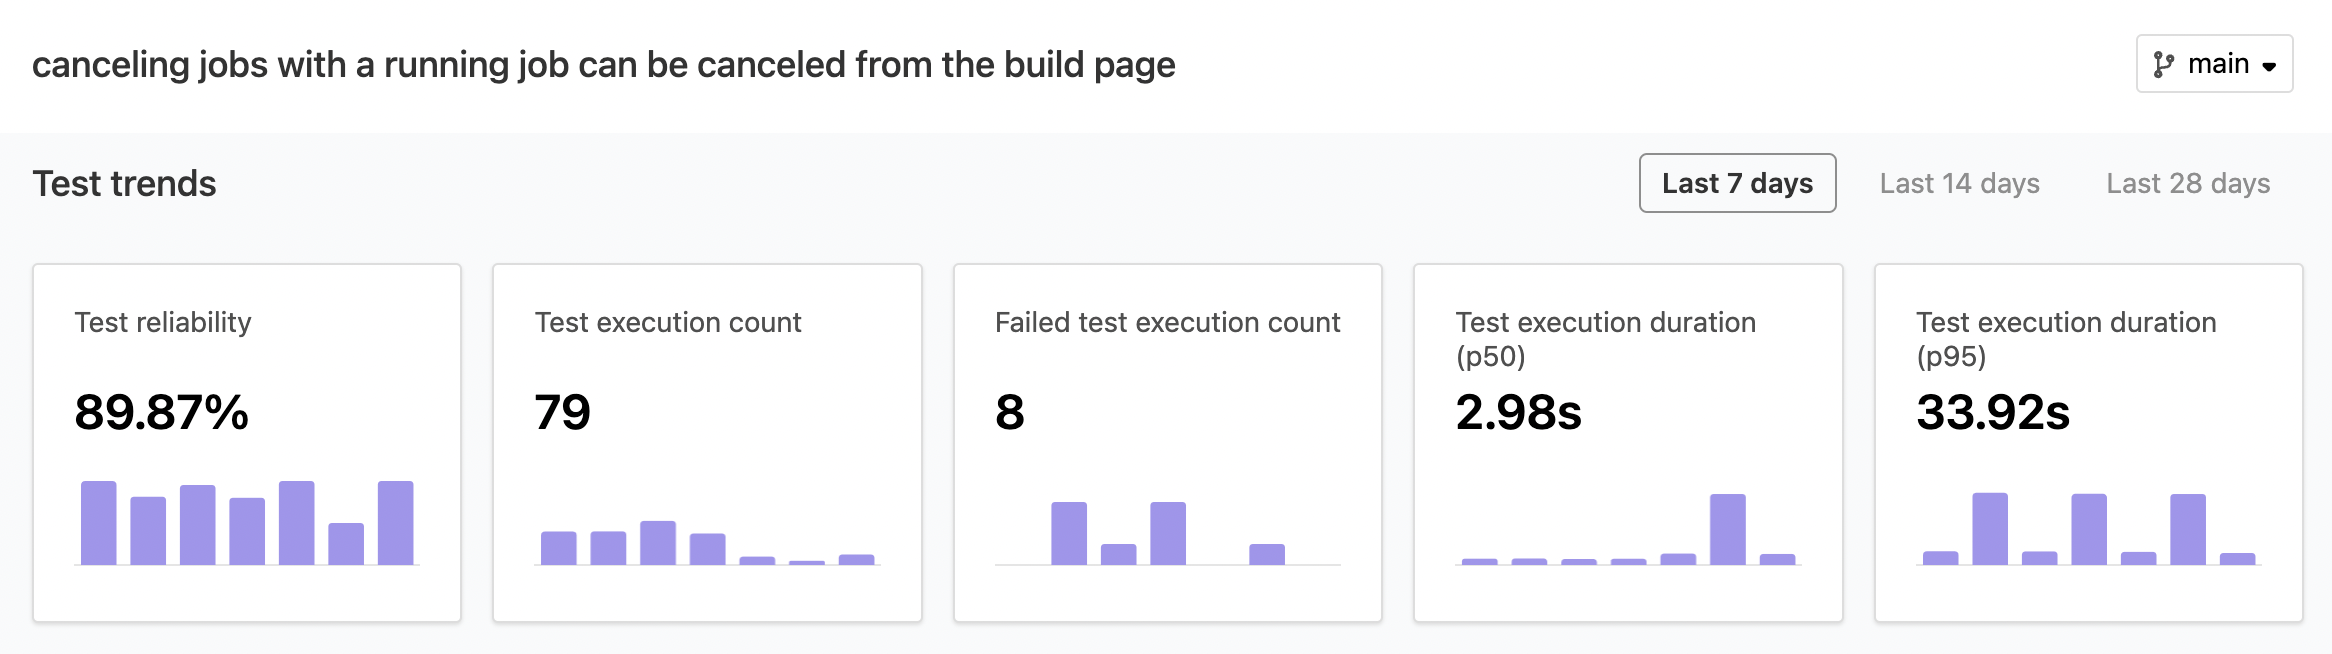
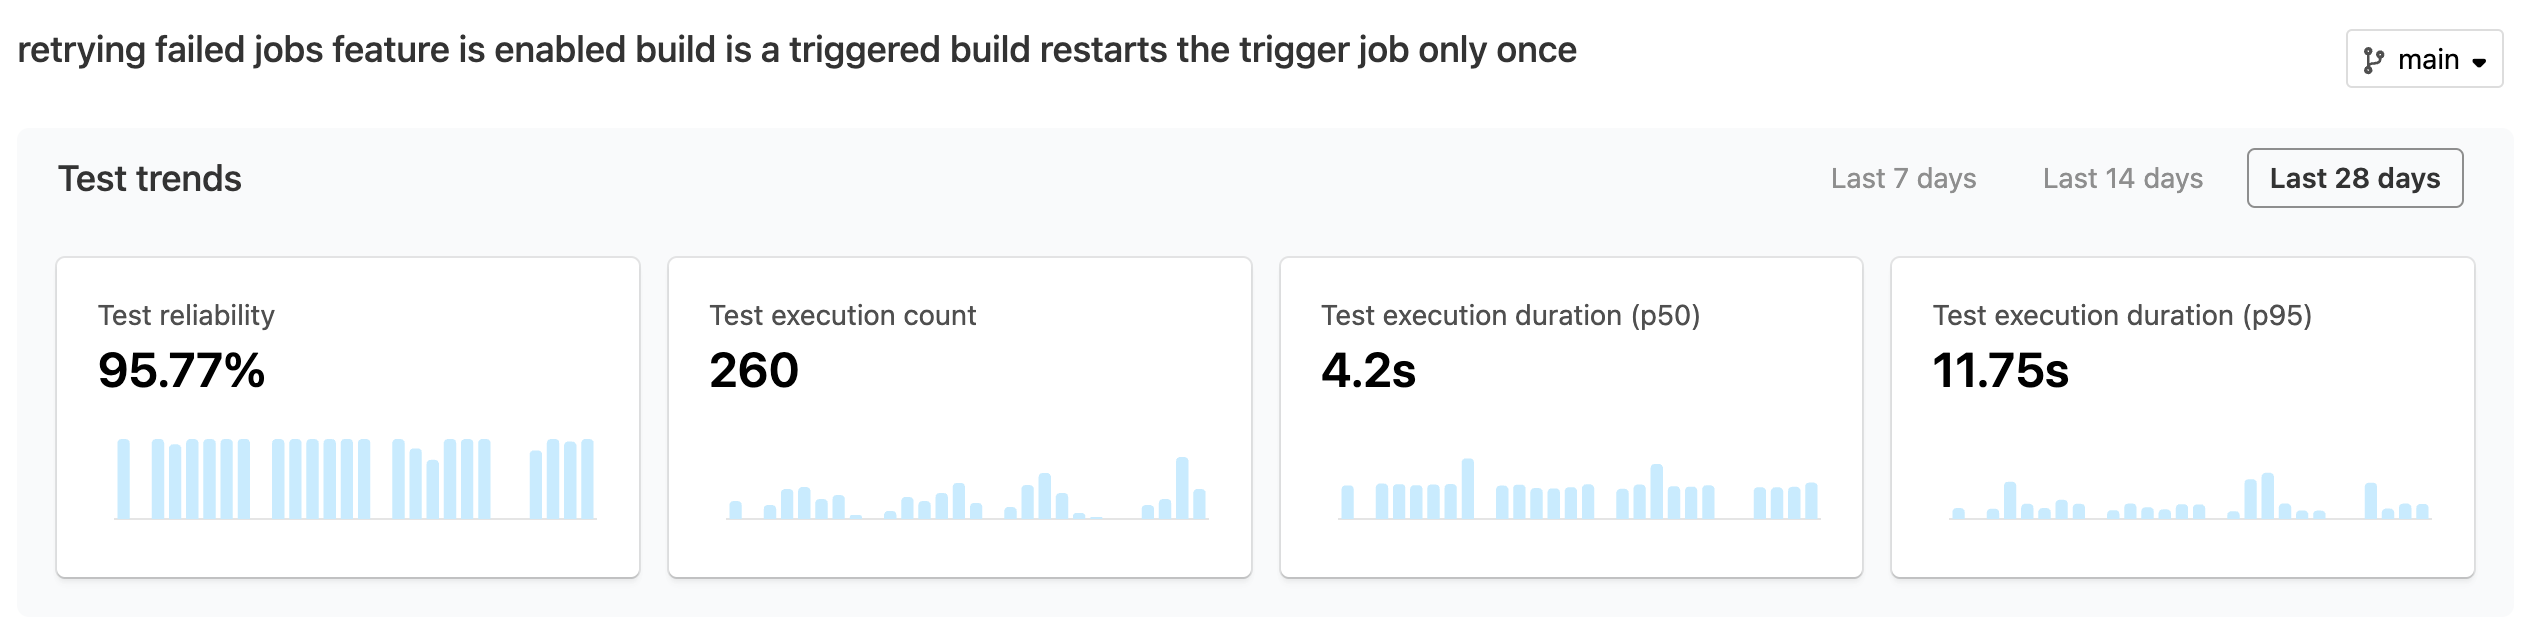
Updating TA docs and images

diff --git a/pages/test_analytics/test_suites.md b/pages/test_analytics/test_suites.md
@@ -74,13 +74,9 @@ Once your test suite is set up, you'll have many types of information automatica
 
 For individual tests, views include trend information on reliability, test execution count, failed test execution count, and test execution duration at p50 and p95, along with detailed information about span duration and total duration of that test execution over time.
 
-<%= image "test-stats.png", width: 1166, height: 327, alt: "Screenshot of test trend page showing test trend information over the last 7 days, including failed test execution count and test execution durations" %>
+<%= image "test-stats.png", width: 1166, height: 327, alt: "Screenshot of test trend page showing test trend information over the last 28 days, including failed test execution count and test execution durations" %>
 
-<%= image "test-trend.png", width: 1167, height: 394, alt: "Screenshot of test trend page showing change in duration across test runs and a recent failed test executions" %>
-
-Select any individual test execution to see more trend and deep-dive information, including comparisons against previous executions of this test.
-
-For example, in the following screenshot, you can see that the test execution duration of 5.26 seconds is 2 seconds and 233 milliseconds more than the median of the previous 25 executions. In addition, the current value for this test execution of 5.26 seconds is in the 66th percentile within the distribution over the last 25 executions.
+Select any individual test execution to see more trend and deep-dive information, including any issues found within the execution.
 
 <%= image "test-execution-stats.png", width: 1170, height: 578, alt: "Screenshot of individual test execution page showing test information related to that individual execution of the test" %>
 

diff --git a/pages/test_analytics/test_executions.md b/pages/test_analytics/test_executions.md
@@ -3,6 +3,7 @@
 Each [Buildkite plan](https://buildkite.com/pricing) has test execution inclusions, which vary depending on the plan type and the number of users in your organization.
 
 You can find the test execution details for a run at the bottom of the run page, and your organization's [total usage](#usage-page) in Settings.
+
 <%= image "test_executions.png", alt: "Test executions run page" %>
 
 ## Usage page
